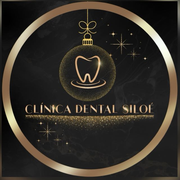
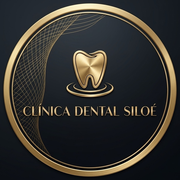
ultimas actualizaciones

diff --git a/src/routes/index.tsx b/src/routes/index.tsx
@@ -13,11 +13,13 @@ import { Textarea } from "@/components/ui/textarea";
 import { Dialog, DialogContent, DialogDescription, DialogTitle } from "@/components/ui/dialog";
 import { supabase } from "@/integrations/supabase/client";
 import heroImage from "@/assets/hero.jpg";
-import logoImage from "@/assets/logo 1 clinica dental.png";
+import logoImage from "@/assets/logo-siloe.png";
 import esteticaImage from "@/assets/estetica-dental.jpeg";
 import carillasImage from "@/assets/carillas.jpg";
 import blanqueamientoImage from "@/assets/blanqueamiento.jpg";
 import coronasImage from "@/assets/coronas.jpg";
+import especialidadesImage from "@/assets/especialidades.jpg";
+import escanerImage from "@/assets/coronas-escaner.jpg";
 import protesisImage from "@/assets/protesis.jpg";
 import extraccionesImage from "@/assets/extracciones.jpg";
 import cirugiaImage from "@/assets/cirugia.jpg";
@@ -90,20 +92,32 @@ export const Route = createFileRoute("/")({
   component: Home,
 });
 
+const SPECIALTIES_SERVICE_NAME = "Especialidades Odontológicas";
 const SERVICES = [
   { title: "Estética Dental", image: esteticaImage, desc: "Tratamientos personalizados para armonizar la forma, el color y la proporción de la sonrisa.", fullDesc: "La valoración estética considera la forma, el color y la proporción de los dientes en relación con la sonrisa y los rasgos faciales. Con base en tus necesidades, se define un plan individualizado y los procedimientos más adecuados." },
   { title: "Carillas", image: carillasImage, desc: "Láminas de cerámica diseñadas para modificar la forma, el tamaño o el color dental.", fullDesc: "Las carillas son láminas delgadas, generalmente de cerámica, que se adhieren a la superficie frontal de los dientes. Tras valorar la salud oral y las características de cada pieza, pueden indicarse para corregir cambios de color, forma, tamaño o pequeñas irregularidades." },
   { title: "Blanqueamiento", image: blanqueamientoImage, desc: "Tratamiento profesional para aclarar el tono de los dientes naturales de forma controlada.", fullDesc: "Antes del blanqueamiento se revisan la salud oral, el tono inicial y la sensibilidad dental. La técnica se selecciona según cada caso; el grado de aclaramiento y la respuesta al tratamiento pueden variar entre personas." },
-  { title: "Coronas y Puentes", image: coronasImage, desc: "Restauraciones que protegen dientes debilitados y reemplazan piezas ausentes.", fullDesc: "Las coronas recubren y restauran dientes con daño extenso, mientras que los puentes pueden sustituir una o más piezas ausentes apoyándose en dientes o implantes. La valoración determina el diseño, el material y la alternativa indicada para cada caso." },
+  { title: "Coronas y Puentes", image: coronasImage, desc: "Restauraciones que protegen dientes debilitados y reemplazan piezas ausentes, con garantía de por vida del laboratorio.", fullDesc: "Las coronas recubren y restauran dientes con daño extenso, mientras que los puentes pueden sustituir una o más piezas ausentes apoyándose en dientes o implantes. La valoración determina el diseño, el material y la alternativa indicada para cada caso. Además, tomamos las impresiones con escáner digital, lo que es más cómodo para el paciente y ofrece mayor precisión en el resultado. Nuestras coronas y puentes cuentan con garantía de por vida por parte del laboratorio." },
   { title: "Prótesis Dentales", image: protesisImage, desc: "Alternativas fijas y removibles para sustituir dientes y recuperar función masticatoria.", fullDesc: "Las prótesis parciales o completas, fijas o removibles, se planifican para reemplazar dientes ausentes y favorecer la masticación y el habla. El tipo de prótesis se define según la salud de los tejidos, las piezas restantes y las necesidades de cada paciente." },
   { title: "Extracciones", image: extraccionesImage, desc: "Retiro de piezas dentales cuando su estado o posición requiere extracción.", fullDesc: "El procedimiento comienza con una valoración de la pieza y de los tejidos cercanos; cuando se requiere, se complementa con estudios de imagen. La extracción se realiza con anestesia local y se acompaña de indicaciones para el cuidado y la recuperación." },
   { title: "Cirugía", image: cirugiaImage, desc: "Procedimientos de cirugía oral e implantología planificados según cada caso.", fullDesc: "La atención puede incluir procedimientos de cirugía oral, extracción de cordales e instalación de implantes. Cada plan se establece después de revisar la salud oral y los estudios necesarios, con indicaciones de preparación y seguimiento posterior." },
-  { title: "Limpieza Dental", image: limpiezaImage, desc: "Profilaxis profesional para remover placa y cálculo y apoyar la salud de las encías.", fullDesc: "La limpieza profesional ayuda a retirar placa bacteriana y cálculo de las superficies dentales y del margen de las encías. Según la valoración, puede incluir pulido y recomendaciones de higiene para mantener la salud oral entre consultas." },
+  { title: "Limpieza Dental", image: limpiezaImage, desc: "Profilaxis profesional para remover placa y cálculo, y apoyar la salud de las encías.", fullDesc: "La limpieza profesional ayuda a retirar placa bacteriana y cálculo de las superficies dentales y del margen de las encías. Según la valoración, puede incluir pulido y recomendaciones de higiene para mantener la salud oral entre consultas." },
   { title: "Radiografía Panorámica y TAC Dental", image: radiografiaTacImage, desc: "Imágenes panorámicas y tomografía 3D para valorar estructuras dentales con mayor detalle.", fullDesc: "La radiografía panorámica ofrece una vista general de los dientes y los maxilares; la tomografía computarizada (TAC o CBCT) produce imágenes tridimensionales de las estructuras indicadas. Estos estudios pueden apoyar la planificación de implantes, cirugías, ortodoncia y otros tratamientos complejos cuando el profesional los considera necesarios." },
   { title: "Ortodoncia (Frenillos)", image: frenillosImage, desc: "Ortodoncia con frenillos para alinear los dientes y corregir alteraciones de la mordida.", fullDesc: "La ortodoncia con frenillos aplica fuerzas controladas para corregir la posición de los dientes y algunas alteraciones de la mordida. El tratamiento incluye valoración, planificación individual y controles periódicos; su duración depende de las necesidades y evolución de cada paciente." },
+  { title: "Escáner Digital", image: escanerImage, desc: "Captura imágenes 3D de alta precisión de dientes y encías, sin moldes de pasta ni alginato.", fullDesc: "El escáner digital es un dispositivo que captura imágenes tridimensionales (3D) de alta precisión de los dientes, las encías y el interior de la boca, y reemplaza los molestos moldes tradicionales de pasta o alginato. Nos brinda mayor precisión y comodidad para el paciente." },
+  { title: SPECIALTIES_SERVICE_NAME, image: especialidadesImage, desc: "Atención con especialistas en cirugía maxilofacial, endodoncia, periodoncia, prostodoncia y ortodoncia.", fullDesc: "Te ofrecemos nuestros especialistas en:" },
 ] as const;
 
 type Service = (typeof SERVICES)[number];
+
+// Especialidades odontológicas: una sola tarjeta en Servicios; el detalle lista las 5 y el formulario pregunta "¿Cuál especialista?".
+const SPECIALTIES = [
+  { title: "Cirugía Maxilofacial", desc: "Cirugías de cordales, implantes, bichectomía, hilos tensores faciales, entre otros." },
+  { title: "Endodoncia", desc: "Tratamiento de nervio y cirugía apical." },
+  { title: "Periodoncia", desc: "Tratamiento de las encías, limpieza profunda con raspado y cirugía periodontal." },
+  { title: "Prostodoncia", desc: "Rehabilitación de casos con prótesis, coronas, puentes o carillas dentales." },
+  { title: "Ortodoncia", desc: "Ortodoncia interceptiva en niños, para guiar el crecimiento de los huesos y de las piezas dentales, y frenillos en cómodas cuotas." },
+] as const;
 type Review = { id: string; name: string; rating: number; text: string | null; created_at: string };
 const GOOGLE_PLACE_ID = "ChIJ2RDM-2RloI8RrQDbA55yp0M";
 const GOOGLE_REVIEW_URL = `https://search.google.com/local/writereview?placeid=${GOOGLE_PLACE_ID}`;
@@ -298,7 +312,7 @@ function Home() {
       <div className={`mx-auto flex ${scrolled || menuOpen ? "h-16" : "h-20"} max-w-7xl items-center justify-between px-5 sm:px-8`}>
         <a href="#inicio" className="flex items-center gap-3 font-[system-ui,sans-serif]" aria-label="Clínica Dental Siloé">
           <img src={logoImage} alt="Logo Clínica Dental Siloé" className={`size-12 rounded-full border border-primary/50 object-cover transition-transform duration-200 ease-out ${scrolled ? "scale-90" : "scale-100"} motion-reduce:transition-none`} />
-          <div className="text-sm font-semibold leading-tight text-primary sm:text-base"><span className="block">CLÍNICA DENTAL</span><span className="block tracking-[0.28em] text-ivory">SILOÉ</span></div>
+          <div className="text-sm font-semibold leading-tight text-primary sm:text-base"><span className="block">CLÍNICA DENTAL</span><span className="block tracking-[0.1em] text-ivory">SILOÉ</span></div>
         </a>
         <nav ref={desktopNavRef} className="relative hidden items-center gap-8 font-[system-ui,sans-serif] lg:flex">{NAV_ITEMS.map(([label, href]) => <a key={href} href={href} data-nav-id={href.slice(1)} aria-current={activeSection === href.slice(1) ? "location" : undefined} className={`text-sm transition-colors hover:text-primary ${activeSection === href.slice(1) ? "text-ivory" : "text-ivory/75"}`}>{label}</a>)}<span aria-hidden="true" className="pointer-events-none absolute -bottom-2 left-0 h-0.5 w-full origin-left bg-primary motion-safe:transition-[transform,opacity] motion-safe:duration-200 motion-safe:ease-out motion-reduce:transition-none" style={{ transform: `translateX(${navIndicator.x}px) scaleX(${navIndicator.scale})`, opacity: navIndicator.opacity }} /></nav>
         <Button variant="gold" size="lg" className="hidden rounded-full bg-none bg-primary px-6 font-[system-ui,sans-serif] shadow-sm shadow-black/15 hover:bg-gold-light hover:brightness-100 lg:inline-flex" onClick={() => go("#agendar")}>Solicitar Cita</Button>
@@ -337,19 +351,21 @@ function Home() {
     <Button type="button" variant="gold" size="icon" aria-label="Volver arriba" tabIndex={showBackToTop ? 0 : -1} aria-hidden={!showBackToTop} onClick={() => window.scrollTo({ top: 0, behavior: window.matchMedia("(prefers-reduced-motion: reduce)").matches ? "auto" : "smooth" })} className={`fixed bottom-24 right-5 z-40 rounded-full bg-none bg-primary shadow-sm shadow-black/15 transition-[transform,opacity] duration-200 ease-out hover:bg-gold-light motion-reduce:transition-none ${showBackToTop ? "translate-y-0 opacity-100" : "pointer-events-none translate-y-2 opacity-0"}`}>
       <ArrowUp />
     </Button>
-    <Dialog open={Boolean(activeService)} onOpenChange={open => !open && setActiveService(null)}><DialogContent className="max-h-[90svh] overflow-y-auto rounded-2xl border-primary/25 p-0 sm:max-w-2xl">{activeService && <><img src={activeService.image} alt={activeService.title} className="h-48 w-full object-cover sm:h-64" /><div className="p-5 sm:p-9"><DialogTitle className="pr-6 font-heading text-2xl leading-tight text-ink sm:text-3xl">{activeService.title}</DialogTitle><DialogDescription className="mt-4 text-base leading-7 text-ink/65">{activeService.fullDesc}</DialogDescription><div className="mt-7 flex flex-col gap-3 sm:flex-row"><Button variant="gold" size="lg" className="w-full rounded-full sm:flex-1" onClick={() => { setActiveService(null); setTimeout(() => go("#agendar"), 150); }}>Solicitar este servicio <ArrowRight /></Button><Button variant="goldOutline" size="lg" className="w-full rounded-full text-gold-muted sm:flex-1" asChild><a href={priceInquiryLink(activeService.title)} target="_blank" rel="noopener noreferrer" aria-label={`Consultar el precio de ${activeService.title} por WhatsApp (se abre en una pestaña nueva)`}><MessageCircle /> Consultar precio</a></Button></div></div></>}</DialogContent></Dialog>
+    <Dialog open={Boolean(activeService)} onOpenChange={open => !open && setActiveService(null)}><DialogContent className="max-h-[90svh] overflow-y-auto rounded-2xl border-primary/25 p-0 sm:max-w-2xl">{activeService && <><img src={activeService.image} alt={activeService.title} className="h-48 w-full object-cover sm:h-64" /><div className="p-5 sm:p-9"><DialogTitle className="pr-6 font-heading text-2xl leading-tight text-ink sm:text-3xl">{activeService.title}</DialogTitle><DialogDescription className="mt-4 text-base leading-7 text-ink/65">{activeService.fullDesc}</DialogDescription>{activeService.title === SPECIALTIES_SERVICE_NAME && <ul className="mt-5 space-y-4">{SPECIALTIES.map(sp => <li key={sp.title} className="flex flex-col gap-3 rounded-xl border border-primary/25 bg-primary/5 p-4 sm:flex-row sm:items-center sm:justify-between sm:gap-4"><div><p className="font-heading text-lg text-ink">{sp.title}</p><p className="mt-1 text-sm leading-6 text-ink/65">{sp.desc}</p></div><Button variant="goldOutline" size="sm" className="w-full shrink-0 rounded-full text-gold-muted sm:w-auto" asChild><a href={priceInquiryLink(`Especialista en ${sp.title}`)} target="_blank" rel="noopener noreferrer" aria-label={`Consultar el precio de especialista en ${sp.title} por WhatsApp (se abre en una pestaña nueva)`}><MessageCircle /> Consultar precio</a></Button></li>)}</ul>}<div className="mt-7 flex flex-col gap-3 sm:flex-row"><Button variant="gold" size="lg" className="w-full rounded-full sm:flex-1" onClick={() => { setActiveService(null); setTimeout(() => go("#agendar"), 150); }}>Solicitar este servicio <ArrowRight /></Button>{activeService.title !== SPECIALTIES_SERVICE_NAME && <Button variant="goldOutline" size="lg" className="w-full rounded-full text-gold-muted sm:flex-1" asChild><a href={priceInquiryLink(activeService.title)} target="_blank" rel="noopener noreferrer" aria-label={`Consultar el precio de ${activeService.title} por WhatsApp (se abre en una pestaña nueva)`}><MessageCircle /> Consultar precio</a></Button>}</div></div></>}</DialogContent></Dialog>
   </main>;
 }
 
 function SectionTitle({ eyebrow, title, subtitle, dark = false }: { eyebrow: string; title: string; subtitle: string; dark?: boolean }) { return <div className="mx-auto max-w-3xl px-5 text-center"><p className="section-eyebrow">{eyebrow}</p><h2 className={`mt-4 text-4xl leading-tight sm:text-5xl ${dark ? "text-ivory" : "text-ink"}`}>{title}</h2><p className={`mx-auto mt-5 max-w-2xl text-lg leading-7 ${dark ? "text-ivory/60" : "text-ink/60"}`}>{subtitle}</p></div>; }
 
 function Booking() {
-  const [step, setStep] = useState(1), [service, setService] = useState(""), [date, setDate] = useState(""), [time, setTime] = useState(""), [sent, setSent] = useState(false), [loading, setLoading] = useState(false), [error, setError] = useState("");
+  const [step, setStep] = useState(1), [service, setService] = useState(""), [specialty, setSpecialty] = useState(""), [choosingSpecialty, setChoosingSpecialty] = useState(false), [date, setDate] = useState(""), [time, setTime] = useState(""), [sent, setSent] = useState(false), [loading, setLoading] = useState(false), [error, setError] = useState("");
   const [fields, setFields] = useState({ name: "", phone: "", email: "" });
   const [touched, setTouched] = useState({ name: false, phone: false, email: false });
   // Descripción de la cita. Es obligatoria (mínimo 5 caracteres) cuando se elige "Otro servicio".
   const [detail, setDetail] = useState(""), [detailTouched, setDetailTouched] = useState(false);
   const needsDetail = service === OTHER_SERVICE_NAME;
+  // Si eligió "Especialidades Odontológicas", se guarda también la especialidad: "Especialidades Odontológicas: Endodoncia".
+  const serviceToSend = service === SPECIALTIES_SERVICE_NAME && specialty ? `${service}: ${specialty}` : service;
   const detailInvalid = needsDetail && detail.trim().length < OTHER_SERVICE_MIN_DETAIL;
   const showDetailError = detailInvalid && (detailTouched || detail.length > 0);
   // Momento en que la persona llegó al paso de datos; sirve para detectar envíos automáticos demasiado rápidos.
@@ -404,7 +420,7 @@ function Booking() {
           name: form.get("name"),
           phone: form.get("phone"),
           email: form.get("email"),
-          service,
+          service: serviceToSend,
           preferredDate: date,
           preferredTime: time,
           message: detail,
@@ -438,7 +454,8 @@ function Booking() {
   return <section id="agendar" className="bg-ink py-24 sm:py-28"><SectionTitle dark eyebrow="Solicita tu cita" title="Solicita en tres pasos" subtitle="Selecciona el servicio, elige fecha y hora, y déjanos tus datos. Te contactaremos para confirmar." /><div className="mx-auto mt-14 max-w-4xl px-5 sm:px-8"><div className="rounded-2xl border border-primary/25 bg-ivory/5 p-6 sm:p-10">
     {sent ? <div role="status" aria-live="polite" className="py-12 text-center"><span className="mx-auto grid size-16 place-items-center rounded-full bg-primary text-ink"><Check size={30} /></span><h3 className="mt-6 text-3xl text-ivory">Solicitud recibida</h3><p className="mx-auto mt-3 max-w-md text-ivory/60">Gracias. Te contactaremos pronto para confirmar el día y la hora de tu cita.</p><Button variant="goldOutline" className="mt-7 rounded-full" onClick={() => { setSent(false); setStep(1); setService(""); setDate(""); setTime(""); setDetail(""); setDetailTouched(false); formStartedAt.current = 0; }}>Solicitar otra cita</Button></div> : <>
       <div className="mx-auto mb-10 flex max-w-xs items-center">{[1, 2, 3].map((n, i) => <div key={n} className="contents"><span className={`grid size-10 shrink-0 place-items-center rounded-full text-sm font-semibold ${step >= n ? "bg-primary text-ink" : "bg-ivory/10 text-ivory/40"}`}>{n}</span>{i < 2 && <span className={`h-px flex-1 ${step > n ? "bg-primary" : "bg-ivory/10"}`} />}</div>)}</div>
-      {step === 1 && <div><h3 className="mb-7 text-center text-2xl text-ivory">¿Qué servicio necesitas?</h3><div className="grid gap-3 sm:grid-cols-2 lg:grid-cols-3">{SERVICES.map(s => <Button key={s.title} variant="ghost" className={`h-auto min-h-14 justify-start whitespace-normal border px-5 py-3 text-left text-ivory ${service === s.title ? "border-primary bg-primary/15 text-primary" : "border-ivory/15 hover:border-primary/50 hover:bg-ivory/5"}`} onClick={() => setService(s.title)}>{service === s.title && <Check />}{s.title}</Button>)}<Button variant="ghost" className={`h-auto min-h-14 justify-start whitespace-normal border border-dashed px-5 py-3 text-left text-ivory ${service === OTHER_SERVICE_NAME ? "border-primary bg-primary/15 text-primary" : "border-ivory/25 hover:border-primary/50 hover:bg-ivory/5"}`} aria-pressed={service === OTHER_SERVICE_NAME} onClick={() => setService(OTHER_SERVICE_NAME)}>{service === OTHER_SERVICE_NAME && <Check />}{OTHER_SERVICE_NAME}</Button></div><div className="mt-8 flex justify-end"><Button variant="gold" size="lg" disabled={!service} onClick={() => setStep(2)}>Continuar <ChevronRight /></Button></div></div>}
+      {step === 1 && choosingSpecialty && <div><h3 className="mb-7 text-center text-2xl text-ivory">¿Cuál especialista?</h3><div className="grid gap-3 sm:grid-cols-2 lg:grid-cols-3">{SPECIALTIES.map(sp => <Button key={sp.title} variant="ghost" className={`h-auto min-h-14 justify-start whitespace-normal border px-5 py-3 text-left text-ivory ${specialty === sp.title ? "border-primary bg-primary/15 text-primary" : "border-ivory/15 hover:border-primary/50 hover:bg-ivory/5"}`} aria-pressed={specialty === sp.title} onClick={() => { setSpecialty(sp.title); setChoosingSpecialty(false); setStep(2); }}>{specialty === sp.title && <Check />}{sp.title}</Button>)}</div><div className="mt-8 flex justify-start"><Button variant="ghost" className="text-ivory" onClick={() => setChoosingSpecialty(false)}><ChevronLeft /> Atrás</Button></div></div>}
+      {step === 1 && !choosingSpecialty && <div><h3 className="mb-7 text-center text-2xl text-ivory">¿Qué servicio necesitas?</h3><div className="grid gap-3 sm:grid-cols-2 lg:grid-cols-3">{SERVICES.map(s => <Button key={s.title} variant="ghost" className={`h-auto min-h-14 justify-start whitespace-normal border px-5 py-3 text-left text-ivory ${service === s.title ? "border-primary bg-primary/15 text-primary" : "border-ivory/15 hover:border-primary/50 hover:bg-ivory/5"}`} onClick={() => setService(s.title)}>{service === s.title && <Check />}{s.title}</Button>)}<Button variant="ghost" className={`h-auto min-h-14 justify-start whitespace-normal border border-dashed px-5 py-3 text-left text-ivory ${service === OTHER_SERVICE_NAME ? "border-primary bg-primary/15 text-primary" : "border-ivory/25 hover:border-primary/50 hover:bg-ivory/5"}`} aria-pressed={service === OTHER_SERVICE_NAME} onClick={() => setService(OTHER_SERVICE_NAME)}>{service === OTHER_SERVICE_NAME && <Check />}{OTHER_SERVICE_NAME}</Button></div><div className="mt-8 flex justify-end"><Button variant="gold" size="lg" disabled={!service} onClick={() => { if (service === SPECIALTIES_SERVICE_NAME) setChoosingSpecialty(true); else setStep(2); }}>Continuar <ChevronRight /></Button></div></div>}
       {step === 2 && <div><h3 className="mb-7 text-center text-2xl text-ivory">Elige fecha y hora</h3><div className="mx-auto grid max-w-xl gap-5 sm:grid-cols-2"><label className="text-sm text-ivory/70">Fecha<Input type="date" min={today} value={date} onChange={e => changeDate(e.target.value)} aria-invalid={dateIsClosed} className="mt-2 h-12 border-ivory/20 bg-ivory/5 text-ivory [color-scheme:dark]" /></label><label className="text-sm text-ivory/70">Hora<select value={time} onChange={e => setTime(e.target.value)} disabled={dateIsClosed} className="mt-2 h-12 w-full rounded-md border border-ivory/20 bg-ink px-4 text-ivory outline-none focus:border-primary disabled:opacity-50"><option value="">Seleccionar</option>{hoursForDate.map(h => <option key={h}>{h}</option>)}</select></label></div>{dateIsClosed && <p role="alert" className="mx-auto mt-4 max-w-xl text-sm text-destructive">Los domingos la clínica está cerrada. Elige otro día.</p>}{date && !dateIsClosed && !time && <p className="mx-auto mt-4 max-w-xl text-xs text-ivory/55">{new Date(`${date}T12:00:00Z`).getUTCDay() === 6 ? "Los sábados atendemos de 8:00 a. m. a 12:00 p. m." : "De lunes a viernes atendemos de 8:00 a. m. a 5:30 p. m."}</p>}<div className="mt-8 flex justify-between"><Button variant="ghost" className="text-ivory" onClick={() => setStep(1)}><ChevronLeft /> Atrás</Button><Button variant="gold" size="lg" disabled={!date || !time} onClick={() => { if (!formStartedAt.current) formStartedAt.current = Date.now(); setStep(3); }}>Continuar <ChevronRight /></Button></div></div>}
       {step === 3 && <form onSubmit={submit} aria-busy={loading} className="relative"><h3 className="mb-7 text-center text-2xl text-ivory">Cuéntanos cómo contactarte</h3><fieldset disabled={loading} className="m-0 min-w-0 border-0 p-0"><Honeypot name="website_url" /><div className="grid gap-4 sm:grid-cols-2">
         <BookingField id="booking-name" name="name" label="Nombre completo *" required value={fields.name} status={fieldStatus("name")} onValueChange={(value) => updateField("name", value)} onBlur={() => setTouched((current) => ({ ...current, name: true }))} />
@@ -908,15 +925,15 @@ function Location() {
 
   return <section ref={sectionRef} id="ubicacion" className="relative isolate overflow-hidden bg-ink">
     <div aria-hidden="true" className="pointer-events-none absolute inset-x-0 top-0 z-20 h-36 bg-gradient-to-b from-ink/85 via-ink/45 to-transparent" />
-    <div className="relative h-[68svh] min-h-[560px] max-h-[920px] sm:h-[76svh]">
-      <img ref={facadeRef} src={fachadaImage} loading="lazy" width={1600} height={1600} alt="Fachada de Clínica Dental Siloé" className="absolute inset-0 h-full w-full scale-[1.06] object-cover object-[center_58%]" />
-      <div aria-hidden="true" className="absolute inset-0 bg-gradient-to-b from-ink/10 via-ink/15 to-ink/90" />
+    <div className="relative h-[74svh] min-h-[620px] max-h-[920px] w-full overflow-hidden sm:aspect-[16/10] sm:h-auto sm:max-h-[900px]">
+      <img ref={facadeRef} src={fachadaImage} loading="lazy" width={1600} height={1600} alt="Fachada de Clínica Dental Siloé" className="absolute inset-0 h-full w-full scale-[1.06] object-cover object-[center_58%] sm:object-[center_15%] lg:object-[center_22%] xl:object-[center_28%] 2xl:object-[center_38%] min-[1800px]:object-[center_42%]" />
+      <div aria-hidden="true" className="absolute inset-0 bg-gradient-to-b from-ink/55 via-ink/15 to-ink/90" />
       <div aria-hidden="true" className="absolute inset-0 bg-gradient-to-r from-ink/80 via-ink/40 to-transparent" />
-      <div className="relative z-10 mx-auto flex h-full max-w-7xl items-end px-5 pb-36 pt-32 sm:px-8 sm:pb-44">
+      <div className="relative z-10 mx-auto flex h-full max-w-7xl items-start px-5 pb-36 pt-20 sm:px-8 sm:pb-44 sm:pt-32">
         <div className="motion-safe:animate-in motion-safe:fade-in-0 motion-safe:slide-in-from-bottom-4 motion-safe:duration-700">
-          <p className="flex items-center gap-3 text-xs font-semibold uppercase tracking-[0.24em] text-primary sm:text-sm"><span className="h-px w-9 bg-primary" />Clínica Dental · Ciudad Quesada</p>
+          <p className="flex items-center gap-3 text-xs font-semibold uppercase tracking-[0.16em] text-primary sm:text-sm sm:tracking-[0.24em]"><span className="h-px w-7 shrink-0 bg-primary sm:w-9" />Clínica Dental · Ciudad Quesada</p>
           <h2 className="mt-5 max-w-3xl text-4xl leading-tight text-ivory sm:text-6xl lg:text-7xl">Te esperamos en <span className="gold-text">Siloé.</span></h2>
-          <p className="mt-4 max-w-xl text-base leading-7 text-ivory/80 sm:text-lg">Un espacio cálido para cuidar tu sonrisa. Encuentra nuestra ubicación y planea tu visita.</p>
+          <p className="mt-3 max-w-sm text-sm leading-6 text-ivory/80 sm:mt-4 sm:max-w-3xl sm:text-base">Un espacio cálido para cuidar tu sonrisa. Encuentra nuestra ubicación y planea tu visita.</p>
         </div>
       </div>
     </div>
@@ -942,7 +959,7 @@ function Location() {
           </div>
           <div className="mt-8 flex flex-col gap-3 sm:flex-row">
             <Button variant="gold" size="lg" className="sm:flex-1" asChild><a href={DIRECTIONS_URL} target="_blank" rel="noopener noreferrer"><MapPin /> Cómo llegar</a></Button>
-            <Button variant="goldOutline" size="lg" className="text-ivory sm:flex-1" asChild><a href="tel:70137712"><Phone /> 7013 7712</a></Button>
+            <Button variant="goldOutline" size="lg" className="text-ivory sm:flex-1" asChild><a href="tel:+50624607923"><Phone /> 2460 7923</a></Button>
           </div>
         </div>
         <div className="relative min-h-[320px] border-t border-primary/25 p-3 sm:p-4 lg:min-h-[500px] lg:border-l lg:border-t-0">

diff --git a/src/components/legal-layout.tsx b/src/components/legal-layout.tsx
@@ -1,7 +1,7 @@
 import type { ReactNode } from "react";
 import { Link } from "@tanstack/react-router";
 import { ArrowLeft } from "lucide-react";
-import logoImage from "@/assets/logo 1 clinica dental.png";
+import logoImage from "@/assets/logo-siloe.png";
 import { SITE } from "@/lib/site";
 
 export function LegalLayout({
@@ -26,7 +26,7 @@ export function LegalLayout({
               className="size-10 rounded-full border border-primary/50 object-cover"
             />
             <span className="text-sm font-semibold leading-tight text-primary">
-              CLÍNICA DENTAL <span className="block tracking-[0.28em] text-ivory">SILOÉ</span>
+              CLÍNICA DENTAL <span className="block tracking-[0.1em] text-ivory">SILOÉ</span>
             </span>
           </Link>
           <Link

diff --git a/src/routes/__root.tsx b/src/routes/__root.tsx
@@ -11,7 +11,7 @@ import { type ReactNode } from "react";
 import { Home, MessageCircle, CalendarDays } from "lucide-react";
 
 import appCss from "../styles.css?url";
-import logoImage from "@/assets/logo 1 clinica dental.png";
+import logoImage from "@/assets/logo-siloe.png";
 import { SITE, whatsappLink } from "@/lib/site";
 
 function NotFoundComponent() {
